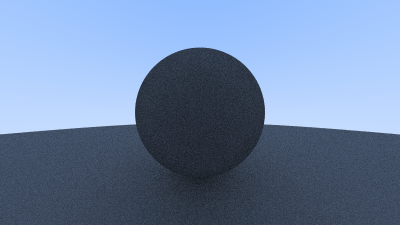
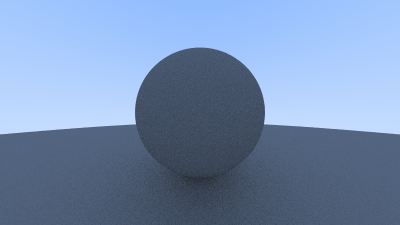
feat: Add MIN_RAY_INTERSECTION_TIME to combat floating point errors in reflected rays

diff --git a/src/camera.rs b/src/camera.rs
@@ -11,6 +11,12 @@ const MAX_COLOR: u32 = 256;
 // The maximum number of ray bounces into the scene.
 const MAX_RAY_BOUNCES: u32 = 8;
 
+// The minimum time required for a reflected ray to intersect a surface.
+// This prevents floating-point errors from putting a reflected ray behind
+// the incident surface and immediately intersecting with the surface.
+// Some literature calls this "shadow acne".
+const MIN_RAY_INTERSECTION_TIME: f64 = 0.001;
+
 #[derive(Debug, PartialEq, Default)]
 pub struct Camera {
     /// Public modifiable state
@@ -44,11 +50,11 @@ fn color(r: Ray, depth: u32, world: &HittableList, rng: &mut Rng) -> Color {
     if depth == 0 {
         return Color::new(0.0, 0.0, 0.0);
     }
-    if let Some(rec) = world.hit(r, &Interval::new(0.0, f64::INFINITY)) {
+    if let Some(rec) = world.hit(r, &Interval::new(MIN_RAY_INTERSECTION_TIME, f64::INFINITY)) {
         let v = Vec3::new_random_unit_vector(rng);
-        let scatter_direction = align(v, rec.normal);
-        let scatter_ray = Ray::new(rec.pt, scatter_direction);
-        return 0.5 * color(scatter_ray, depth - 1, world, rng);
+        let reflect_direction = align(v, rec.normal);
+        let reflect_ray = Ray::new(rec.pt, reflect_direction);
+        return 0.5 * color(reflect_ray, depth - 1, world, rng);
     }
     let unit_direction = unit_vector(r.direction());
     let a = 0.5 * (unit_direction.y() + 1.0);
